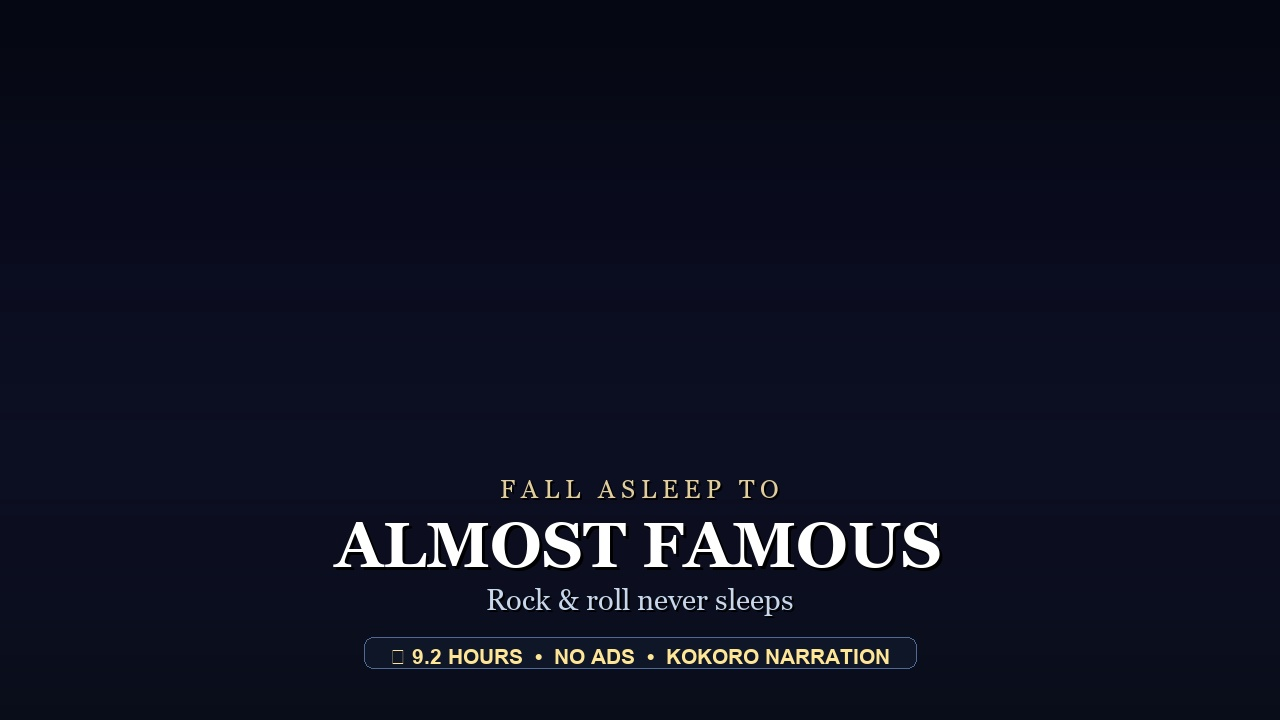
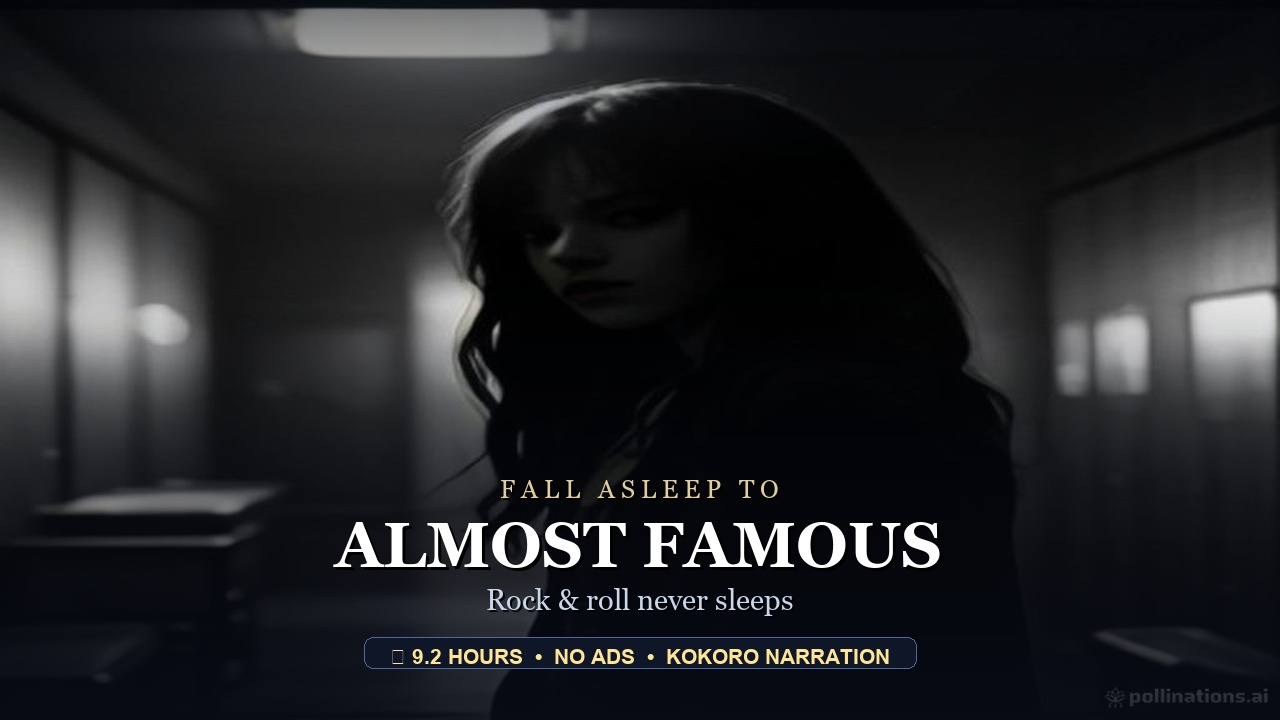
Update branded thumbnails story_056-076 + uploader redesign [skip ci]

diff --git a/youtube_uploader.py b/youtube_uploader.py
@@ -6,28 +6,154 @@ from google.oauth2.credentials import Credentials
 import urllib.parse
 from PIL import Image, ImageDraw, ImageFont
 
-def generate_thumbnail(movie_title):
-    print(f"Generating thumbnail for {movie_title}...")
-    
-    # Use Pollinations AI (Free, no-auth Image Generation API)
-    # Create an atmospheric, sleep-story vibe prompt
-    prompt = f"A beautiful, extremely soothing cinematic lofi night sky with a subtle crescent moon over dark pine trees, deep midnight blues and glowing stars, no text"
-    safe_prompt = urllib.parse.quote(prompt)
-    url = f"https://image.pollinations.ai/prompt/{safe_prompt}?width=1280&height=720&nologo=true"
-    
-    thumbnail_path = f"{movie_title}_thumbnail.jpg"
-    
-    response = requests.get(url)
-    if response.status_code == 200:
-        with open(thumbnail_path, 'wb') as f:
-            f.write(response.content)
-        print("Thumbnail downloaded successfully!")
-    else:
-        print("Failed to generate thumbnail via AI. Creating a solid color fallback.")
-        img = Image.new('RGB', (1280, 720), color=(10, 15, 30))
-        img.save(thumbnail_path)
-    
-    return thumbnail_path
+import io
+
+# ── Branded thumbnail constants ────────────────────────────────────────────────
+_FONT_REGULAR = r"C:\Windows\Fonts\georgia.ttf"
+_FONT_BOLD    = r"C:\Windows\Fonts\georgiab.ttf"
+_FONT_ARIAL   = r"C:\Windows\Fonts\arialbd.ttf"
+
+_TAGLINES = {
+    "Aliens": "Colonial Marines vs. the Hive",
+    "All About Eve": "Ambition wrapped in applause",
+    "All About Steve": "One woman. One road trip.",
+    "All of Us Strangers": "Love echoes through time and memory",
+    "All the Kings Men": "Power corrupts. Ambition destroys.",
+    "All the Presidents Men": "Two reporters. One conspiracy.",
+    "Almost Famous": "Rock & roll never sleeps",
+    "Alone in the Dark": "Darkness hides more than shadows",
+    "Amadeus": "Genius and jealousy in Vienna",
+    "Amelia": "Sky, courage, and open horizon",
+    "American Beauty": "Look closer. Sleep deeper.",
+    "American Fiction": "A writer's satire on life",
+    "American Gangster": "Empire built in the shadows",
+    "American Graffiti": "One last summer night cruise",
+    "American History X": "Brotherhood forged through hard truth",
+    "American Hustle": "Everyone hustles to survive",
+    "American Madness": "A bank, a crisis, a community",
+    "American Milkshake": "Small town. Big awkward summer.",
+    "American Outlaws": "Riding hard on the frontier",
+    "American Pie": "High school never felt so real",
+    "American President The": "Love in the halls of power",
+    "10 Things I Hate About You": "Shakespeare in a Seattle high school",
+    "12 Monkeys": "Time loops and chaos theory",
+    "12 Years a Slave": "Survival. Dignity. Freedom.",
+    "127 Hours": "Alone. Trapped. Unbreakable.",
+    "A Few Good Men": "You can't handle the truth",
+    "A Quiet Place": "Silence is the only shield",
+    "Alien": "In space, no one hears you breathe",
+    "Alien 3": "No escape. No hope. No choice.",
+    "Alien Nation": "Two detectives. Two worlds.",
+    "Alien vs Predator": "Two hunters. One frozen battlefield.",
+    "Air Force One": "The president fights back at 35,000 ft",
+    "Aladdin": "A diamond in the rough shines bright",
+}
+
+def _get_tagline(movie_name):
+    return _TAGLINES.get(movie_name, "A cinematic journey into sleep")
+
+def _fetch_bg(movie_name, size=(1280, 720)):
+    clean = movie_name.replace("The ", "").replace(" The", "").strip()
+    prompt = (
+        f"cinematic still from {clean}, dark moody atmosphere, "
+        f"deep shadows, dramatic lighting, film noir, wide shot, "
+        f"4k ultra hd, no text, no watermarks"
+    )
+    encoded = urllib.parse.quote(prompt)
+    url = (
+        f"https://image.pollinations.ai/prompt/{encoded}"
+        f"?width={size[0]}&height={size[1]}&nologo=true"
+        f"&model=flux&seed={abs(hash(movie_name)) % 99999}"
+    )
+    try:
+        resp = requests.get(url, timeout=50)
+        resp.raise_for_status()
+        img = Image.open(io.BytesIO(resp.content)).convert("RGB")
+        return img.resize(size, Image.LANCZOS)
+    except Exception:
+        img = Image.new("RGB", size, (5, 8, 20))
+        draw = ImageDraw.Draw(img)
+        w, h = size
+        for y in range(h):
+            r = y / h
+            draw.line([(0, y), (w, y)], fill=(int(5+15*r), int(8+12*r), int(20+30*r)))
+        return img
+
+def _apply_overlay(base_img, movie_title, tagline, duration_hrs):
+    img = base_img.copy().convert("RGBA")
+    w, h = img.size
+    overlay = Image.new("RGBA", (w, h), (0, 0, 0, 0))
+    draw_ov = ImageDraw.Draw(overlay)
+    start_y = int(h * 0.35)
+    for y in range(start_y, h):
+        ratio = (y - start_y) / float(h - start_y)
+        alpha = int(230 * (ratio ** 1.2))
+        draw_ov.line([(0, y), (w, y)], fill=(8, 12, 22, min(240, alpha)))
+    for y in range(0, int(h * 0.25)):
+        ratio = 1.0 - (y / float(h * 0.25))
+        draw_ov.line([(0, y), (w, y)], fill=(5, 8, 16, int(140 * ratio)))
+    img = Image.alpha_composite(img, overlay).convert("RGB")
+    draw = ImageDraw.Draw(img)
+
+    try:
+        font_eyebrow = ImageFont.truetype(_FONT_REGULAR, max(22, int(h * 0.036)))
+        font_sub     = ImageFont.truetype(_FONT_REGULAR, max(22, int(h * 0.041)))
+        font_badge   = ImageFont.truetype(_FONT_ARIAL,   max(18, int(h * 0.030)))
+        font_t = ImageFont.truetype(_FONT_BOLD, max(48, int(h * 0.088)))
+        title_text = movie_title.upper()
+        for sz in [int(h*0.088), int(h*0.074), int(h*0.060), int(h*0.048)]:
+            font_t = ImageFont.truetype(_FONT_BOLD, max(36, sz))
+            bb = draw.textbbox((0, 0), title_text, font=font_t)
+            if (bb[2] - bb[0]) < w * 0.92:
+                break
+    except Exception:
+        font_eyebrow = font_sub = font_badge = font_t = ImageFont.load_default()
+        title_text = movie_title.upper()
+
+    eyebrow = "F A L L   A S L E E P   T O"
+    bbox_e = draw.textbbox((0, 0), eyebrow, font=font_eyebrow)
+    ew = bbox_e[2] - bbox_e[0]
+    ey = int(h * 0.66)
+    draw.text(((w-ew)//2+2, ey+2), eyebrow, font=font_eyebrow, fill=(0, 0, 0))
+    draw.text(((w-ew)//2, ey),     eyebrow, font=font_eyebrow, fill=(225, 205, 155))
+
+    bbox_t = draw.textbbox((0, 0), title_text, font=font_t)
+    tw = bbox_t[2] - bbox_t[0]
+    ty = ey + int(h * 0.048)
+    draw.text(((w-tw)//2+3, ty+3), title_text, font=font_t, fill=(0, 0, 0))
+    draw.text(((w-tw)//2, ty),     title_text, font=font_t, fill=(255, 255, 255))
+
+    sub_y = ty + int(h * 0.104)
+    bbox_s = draw.textbbox((0, 0), tagline, font=font_sub)
+    sw = bbox_s[2] - bbox_s[0]
+    draw.text(((w-sw)//2+2, sub_y+2), tagline, font=font_sub, fill=(0, 0, 0))
+    draw.text(((w-sw)//2, sub_y),     tagline, font=font_sub, fill=(200, 215, 235))
+
+    badge_text = f"  {duration_hrs} HOURS  \u2022  NO ADS  \u2022  KOKORO NARRATION  "
+    bbox_b = draw.textbbox((0, 0), badge_text, font=font_badge)
+    bw = bbox_b[2] - bbox_b[0]; bh = bbox_b[3] - bbox_b[1]
+    bx = (w - bw) // 2; by = int(h * 0.895)
+    draw.rounded_rectangle([bx-14, by-7, bx+bw+14, by+bh+9], radius=9,
+                           fill=(15, 22, 40), outline=(80, 105, 150), width=1)
+    draw.text((bx, by), badge_text, font=font_badge, fill=(255, 230, 150))
+    return img
+
+def generate_thumbnail(movie_title, duration_minutes=180, output_path=None):
+    """Generate a branded 'FALL ASLEEP TO [MOVIE]' thumbnail.
+    Returns the path to the saved thumbnail file."""
+    print(f"Generating branded thumbnail for: {movie_title}")
+    if output_path is None:
+        safe = movie_title.replace(" ", "_").replace("/", "_")
+        output_path = f"{safe}_thumbnail.jpg"
+
+    duration_hrs = f"{duration_minutes / 60:.1f}"
+    tagline = _get_tagline(movie_title)
+
+    bg = _fetch_bg(movie_title)
+    result = _apply_overlay(bg, movie_title, tagline, duration_hrs)
+    result.save(output_path, "JPEG", quality=95)
+    print(f"Thumbnail saved: {output_path}")
+    return output_path
 
 def create_mp4(audio_file, thumbnail_path, output_mp4):
     print(f"Combining {audio_file} and {thumbnail_path} into an MP4 video...")
